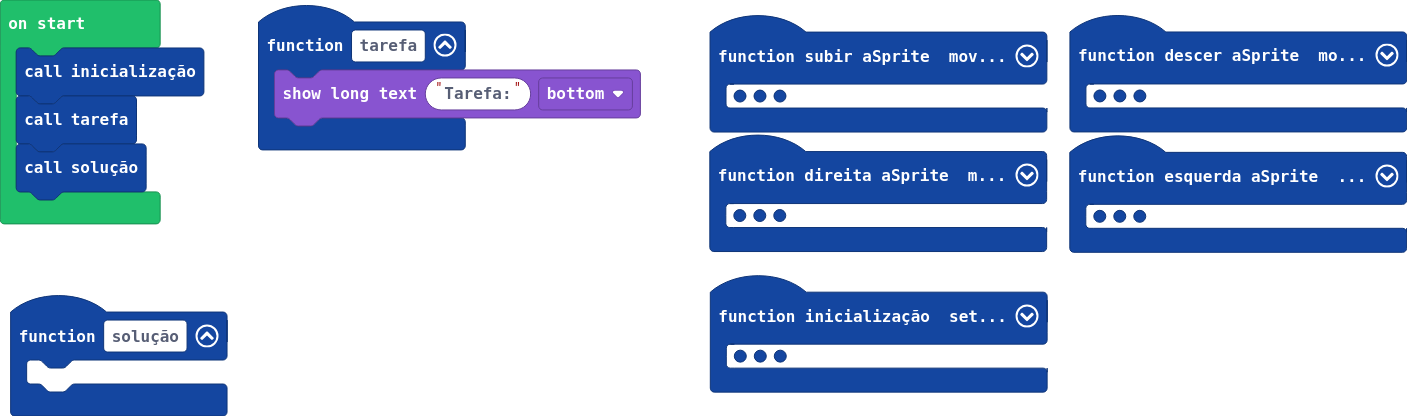
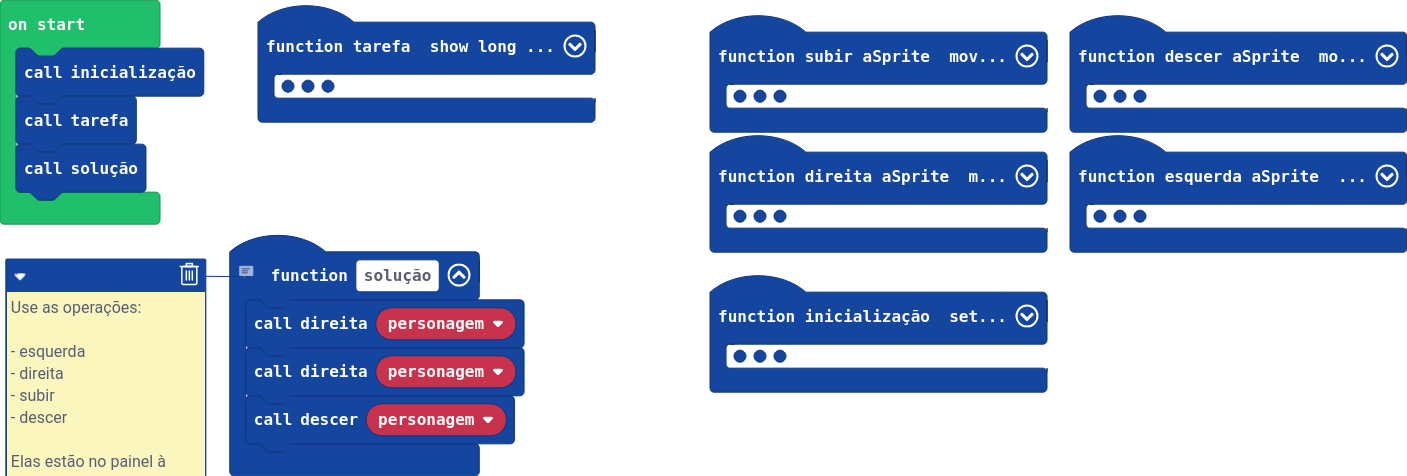
+descrição +solução inicial

diff --git a/tilemap.g.ts b/tilemap.g.ts
@@ -25,7 +25,7 @@ namespace myTiles {
 . . . . . . . . . . . . . . . . 
 `, [myTiles.transparency16], TileScale.Sixteen);
             case "tabuleiro_tiles":
-            case "level2":return tiles.createTilemap(hex`1000100000000000000000000000000000000000000000000000000000000000000000000000000000000000000000000000000000000000000000000000000000000000000000000000000000000000000000000000000000000000000000000000000000000000000000000000000000000000000000000000000000000000000000000000000000000000000000000000000000000000000000000000000000000000000000000000000000000000000000000000000000000000000000000000000000000000000000000000000000000000000000000000000000000000000000000000000000000000000000000000000000000000000000000000000000000000`, img`
+            case "level2":return tiles.createTilemap(hex`1000100000000000000000000000000000000000000000000000000000000000000000000000000001000000000000000000000000000000000000000000000000000000000000000000000000000000000000000000000000000000000000000000000000000000000000000000000000000000000000000000000000000000000000000000000000000000000000000000000000000000000000000000000000000000000000000000000000000000000000000000000000000000000000000000000000000000000000000000000000000000000000000000000000000000000000000000000000000000000000000000000000000000000000000000000000000000`, img`
 . . . . . . . . . . . . . . . . 
 . . . . . . . . . . . . . . . . 
 . . . . . . . . . . . . . . . . 
@@ -42,7 +42,7 @@ namespace myTiles {
 . . . . . . . . . . . . . . . . 
 . . . . . . . . . . . . . . . . 
 . . . . . . . . . . . . . . . . 
-`, [myTiles.transparency16], TileScale.Sixteen);
+`, [myTiles.transparency16,sprites.dungeon.chestClosed], TileScale.Sixteen);
         }
         return null;
     })

diff --git a/main.ts b/main.ts
@@ -1,11 +1,22 @@
+// Use as operações:
+// 
+// - esquerda
+// - direita
+// - subir
+// - descer
+// 
+// Elas estão no painel à esquerda, na seção 'Functions'
+// 
 function solução () {
-	
+    direita(personagem)
+    direita(personagem)
+    descer(personagem)
 }
 function tarefa () {
-    game.showLongText("Tarefa:", DialogLayout.Bottom)
+    game.showLongText("Tarefa: Levar o personagem até o baú.", DialogLayout.Bottom)
 }
 function esquerda (aSprite: Sprite) {
-    grid.move(aSprite, 1, 0)
+    grid.move(aSprite, -1, 0)
     pause(200)
 }
 function subir (aSprite: Sprite) {
@@ -13,7 +24,7 @@ function subir (aSprite: Sprite) {
     pause(200)
 }
 function direita (aSprite: Sprite) {
-    grid.move(aSprite, -1, 0)
+    grid.move(aSprite, 1, 0)
     pause(200)
 }
 function inicialização () {
